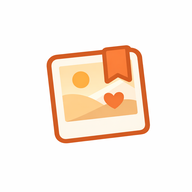
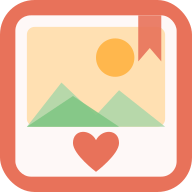
ファビコンの余白を削減しアイコンを拡大
背景とカードの間のパディングを約15pxから8pxに縮小し、
写真フレームや山・太陽・ハートなどの要素を比例拡大。
PNGアイコン(192/512)もSVGから再生成。
index.htmlにSVGファビコン参照を追加。

https://claude.ai/code/session_01CcrSS42a3eyXF2vpBFxECq

diff --git a/index.html b/index.html
@@ -9,6 +9,7 @@
     <meta name="description" content="Momento Lite - 容量ゼロ・高画質・消えない写真保存アプリ" />
     <meta http-equiv="Content-Security-Policy" content="default-src 'self'; script-src 'self'; style-src 'self' 'unsafe-inline'; img-src 'self' blob: https://res.cloudinary.com https://*.cloudinary.com; connect-src 'self' https://res.cloudinary.com https://*.cloudinary.com; font-src 'self'; object-src 'none'; base-uri 'self'; form-action 'self';" />
     <link rel="manifest" href="/manifest.json" />
+    <link rel="icon" type="image/svg+xml" href="/icon.svg" />
     <link rel="icon" type="image/png" sizes="192x192" href="/icon-192.png" />
     <link rel="apple-touch-icon" sizes="192x192" href="/icon-192.png" />
     <title>Momento Lite</title>
